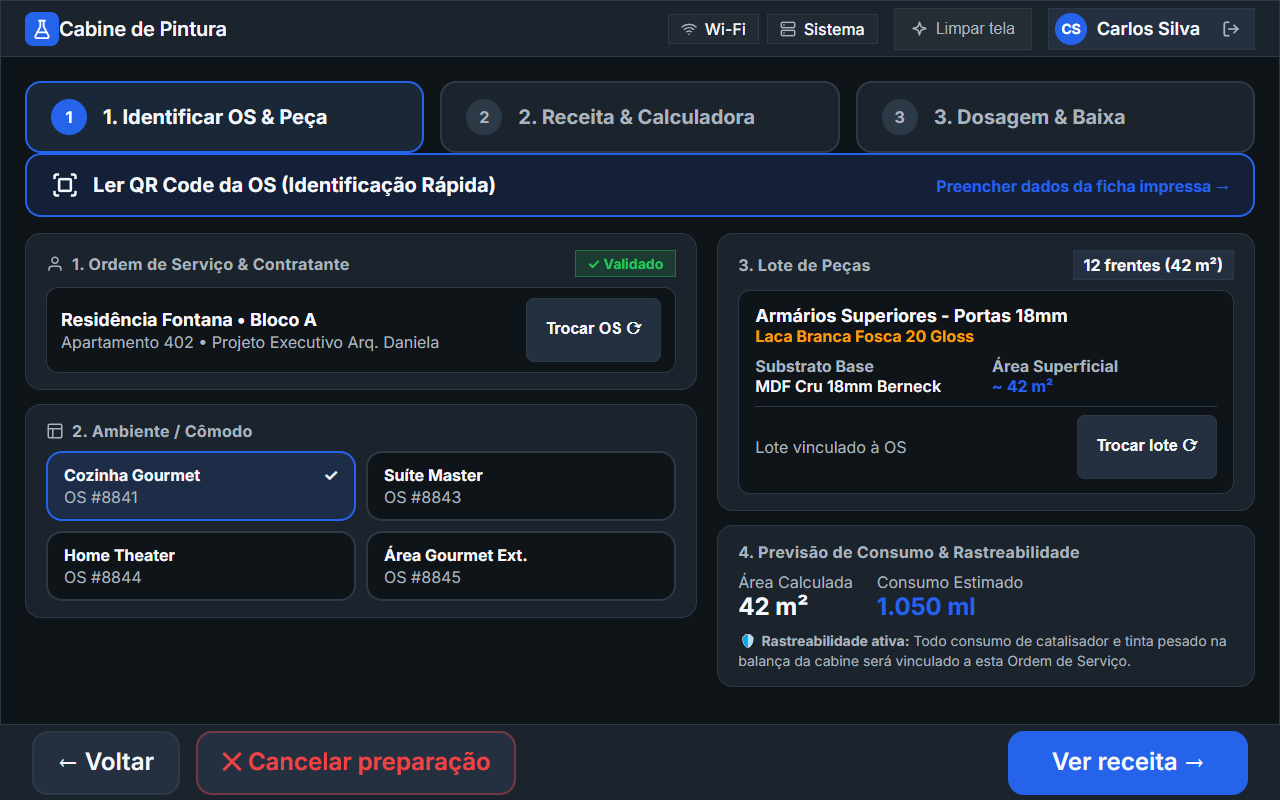
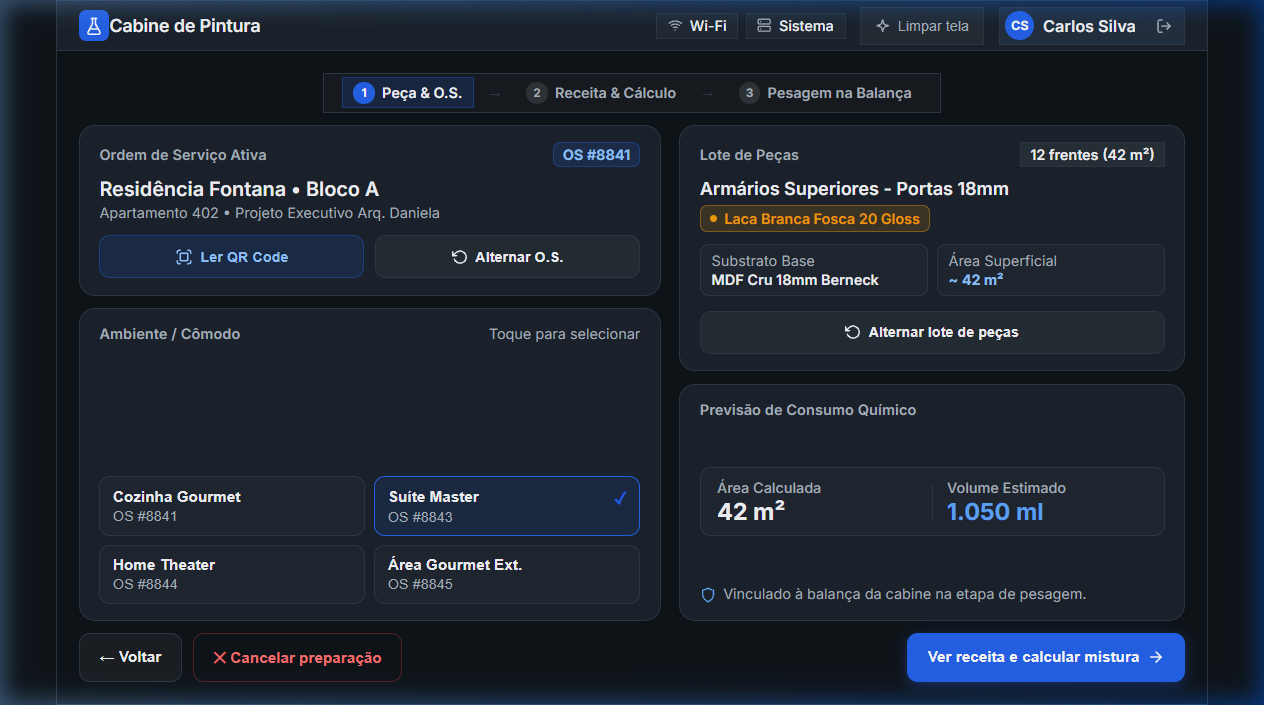
refactor(screen-os): implement minimalist Apple/Notion design for O.S. & piece selection (1280x800)

diff --git a/src/screens/ScreenOS.tsx b/src/screens/ScreenOS.tsx
@@ -1,8 +1,6 @@
 import React from 'react';
 import { Ambiente, PieceLot } from '../types';
 import { MOCK_AMBIENTES } from '../data/mock/mockData';
-import { StepIndicator } from '../components/ui/StepIndicator';
-import { Button } from '../components/ui/Button';
 
 interface ScreenOSProps {
   selectedOS: string;
@@ -20,6 +18,7 @@ interface ScreenOSProps {
 }
 
 export const ScreenOS: React.FC<ScreenOSProps> = ({
+  selectedOS,
   clientName,
   projectName,
   selectedEnvironment,
@@ -33,185 +32,226 @@ export const ScreenOS: React.FC<ScreenOSProps> = ({
   ambientes,
 }) => {
   const listaAmbientes = (ambientes || MOCK_AMBIENTES).map(a => ({ name: a.nome, code: a.codigoOS }));
-  return (
-    <>
-      <div className="screen-content-area">
-        {/* Indicador de Etapas */}
-        <StepIndicator
-          steps={[
-            { id: 1, label: '1. Identificar OS & Peça', status: 'active' },
-            { id: 2, label: '2. Receita & Calculadora', status: 'pending' },
-            { id: 3, label: '3. Dosagem & Baixa', status: 'pending' },
-          ]}
-          onStepClick={(step) => {
-            if (step.id === 2) onNavigate('recipe');
-          }}
-        />
 
-        {/* Botão Ler QR Code em destaque */}
-        <div className="btn-scan-os-featured" onClick={onScanOS}>
-          <div className="btn-scan-os-left">
-            <svg width="28" height="28" viewBox="0 0 24 24" fill="none" stroke="currentColor" strokeWidth="2.2">
-              <path d="M3 7V5a2 2 0 0 1 2-2h2" />
-              <path d="M17 3h2a2 2 0 0 1 2 2v2" />
-              <path d="M21 17v2a2 2 0 0 1-2 2h-2" />
-              <path d="M7 21H5a2 2 0 0 1-2-2v-2" />
-              <rect x="7" y="7" width="10" height="10" rx="1" />
-            </svg>
-            <span>Ler QR Code da OS (Identificação Rápida)</span>
+  return (
+    <div className="os-screen-container">
+      {/* 1. Stepper de Progresso Industrial (Compacto) */}
+      <nav className="os-stepper-bar" aria-label="Etapas da preparação">
+        <div className="os-step-pill active" aria-current="step">
+          <span className="os-step-badge">1</span>
+          <span className="os-step-text">Peça & O.S.</span>
+        </div>
+        <span className="os-step-separator" aria-hidden="true">→</span>
+        <div
+          className="os-step-pill clickable"
+          onClick={() => onNavigate('recipe')}
+          role="button"
+          tabIndex={0}
+          onKeyDown={(e) => {
+            if (e.key === 'Enter' || e.key === ' ') {
+              e.preventDefault();
+              onNavigate('recipe');
+            }
+          }}
+          title="Avançar para Receita & Cálculo"
+        >
+          <span className="os-step-badge">2</span>
+          <span className="os-step-text">Receita & Cálculo</span>
+        </div>
+        <span className="os-step-separator" aria-hidden="true">→</span>
+        <div className="os-step-pill pending">
+          <span className="os-step-badge">3</span>
+          <span className="os-step-text">Pesagem na Balança</span>
+        </div>
+      </nav>
+
+      {/* 2. Área de Trabalho Principal em 2 Colunas */}
+      <div className="os-layout-minimal">
+        {/* Coluna Esquerda: O.S. & Ambiente */}
+        <div className="os-col-left">
+          {/* Card da Ordem de Serviço */}
+          <div className="os-card-surface">
+            <div className="os-card-header-row">
+              <span className="os-section-label">Ordem de Serviço Ativa</span>
+              <span className="os-number-tag">{selectedOS || 'OS #8841'}</span>
+            </div>
+
+            <div className="os-info-block">
+              <h3 className="os-client-title">{clientName}</h3>
+              <p className="os-project-subtitle">{projectName}</p>
+            </div>
+
+            <div className="os-card-actions-row">
+              <button
+                type="button"
+                className="os-action-btn os-btn-scan"
+                onClick={onScanOS}
+                title="Escanear QR Code da Ordem de Serviço"
+                aria-label="Escanear QR Code da Ordem de Serviço"
+              >
+                <svg width="20" height="20" viewBox="0 0 24 24" fill="none" stroke="currentColor" strokeWidth="2.2" strokeLinecap="round" strokeLinejoin="round">
+                  <path d="M3 7V5a2 2 0 0 1 2-2h2" />
+                  <path d="M17 3h2a2 2 0 0 1 2 2v2" />
+                  <path d="M21 17v2a2 2 0 0 1-2 2h-2" />
+                  <path d="M7 21H5a2 2 0 0 1-2-2v-2" />
+                  <rect x="7" y="7" width="10" height="10" rx="1.5" />
+                </svg>
+                <span>Ler QR Code</span>
+              </button>
+
+              <button
+                type="button"
+                className="os-action-btn os-btn-secondary"
+                onClick={onChangeOS}
+                title="Alternar entre Ordens de Serviço cadastradas"
+                aria-label="Alternar Ordem de Serviço"
+              >
+                <svg width="18" height="18" viewBox="0 0 24 24" fill="none" stroke="currentColor" strokeWidth="2.2" strokeLinecap="round" strokeLinejoin="round">
+                  <polyline points="1 4 1 10 7 10" />
+                  <path d="M3.51 15a9 9 0 1 0 2.13-9.36L1 10" />
+                </svg>
+                <span>Alternar O.S.</span>
+              </button>
+            </div>
           </div>
-          <span style={{ fontSize: '16px', color: 'var(--primary)', fontWeight: 700 }}>
-            Preencher dados da ficha impressa →
-          </span>
+
+          {/* Card de Ambientes / Cômodos */}
+          <div className="os-card-surface os-env-surface">
+            <div className="os-card-header-row">
+              <span className="os-section-label">Ambiente / Cômodo</span>
+              <span className="os-hint-label">Toque para selecionar</span>
+            </div>
+
+            <div className="os-env-grid" role="radiogroup" aria-label="Selecione o ambiente da peça">
+              {listaAmbientes.map((env) => {
+                const isSelected = env.name === selectedEnvironment;
+                return (
+                  <button
+                    key={env.name}
+                    type="button"
+                    role="radio"
+                    aria-checked={isSelected}
+                    className={`os-env-chip ${isSelected ? 'is-selected' : ''}`}
+                    onClick={() => onSelectEnvironment(env.name)}
+                  >
+                    <div className="os-env-chip-header">
+                      <span className="os-env-name">{env.name}</span>
+                      {isSelected && (
+                        <span className="os-env-check" aria-hidden="true">✓</span>
+                      )}
+                    </div>
+                    <span className="os-env-code">{env.code}</span>
+                  </button>
+                );
+              })}
+            </div>
+          </div>
         </div>
 
-        {/* Grid de Seleção da OS */}
-        <div className="os-selection-layout">
-          {/* Coluna Esquerda */}
-          <div className="os-card-group">
-            <div className="os-box">
-              <div className="os-box-header">
-                <span className="os-box-title">
-                  <svg width="18" height="18" viewBox="0 0 24 24" fill="none" stroke="currentColor" strokeWidth="2">
-                    <path d="M20 21v-2a4 4 0 0 0-4-4H8a4 4 0 0 0-4 4v2" />
-                    <circle cx="12" cy="7" r="4" />
-                  </svg>
-                  1. Ordem de Serviço & Contratante
-                </span>
-                <span className="badge-validated">✓ Validado</span>
-              </div>
-              <div className="os-highlight-item">
-                <div className="os-highlight-info">
-                  <h4>{clientName}</h4>
-                  <p style={{ fontSize: 'var(--fs-small)' }}>{projectName}</p>
-                </div>
-                <button
-                  className="btn-action-small"
-                  onClick={onChangeOS}
-                  style={{ minHeight: '64px', minWidth: '100px', fontSize: 'var(--fs-small)', fontWeight: 700 }}
-                  aria-label="Trocar Ordem de Serviço"
-                >
-                  Trocar OS ⟳
-                </button>
+        {/* Coluna Direita: Peça & Consumo Previsto */}
+        <div className="os-col-right">
+          {/* Card do Lote de Peças */}
+          <div className="os-card-surface">
+            <div className="os-card-header-row">
+              <span className="os-section-label">Lote de Peças</span>
+              <span className="os-qty-pill">{pieceLot.qty || pieceLot.quantidade || '12 frentes'}</span>
+            </div>
+
+            <div className="os-piece-info">
+              <h3 className="os-piece-title">{pieceLot.title || pieceLot.titulo || 'Armários Superiores - Portas 18mm'}</h3>
+              <div className="os-finish-tag">
+                <span className="os-finish-dot" aria-hidden="true" />
+                <span>Laca Branca Fosca 20 Gloss</span>
               </div>
             </div>
 
-            <div className="os-box">
-              <div className="os-box-header">
-                <span className="os-box-title">
-                  <svg width="18" height="18" viewBox="0 0 24 24" fill="none" stroke="currentColor" strokeWidth="2">
-                    <rect x="3" y="3" width="18" height="18" rx="2" />
-                    <path d="M3 9h18" />
-                    <path d="M9 21V9" />
-                  </svg>
-                  2. Ambiente / Cômodo
-                </span>
+            <div className="os-specs-grid">
+              <div className="os-spec-card">
+                <span className="os-spec-k">Substrato Base</span>
+                <strong className="os-spec-v">{pieceLot.substrate || pieceLot.substrato || 'MDF Cru 18mm Berneck'}</strong>
               </div>
-              <div className="environments-grid">
-                {listaAmbientes.map((env) => {
-                  const isSelected = env.name === selectedEnvironment;
-                  return (
-                    <div
-                      key={env.name}
-                      className={`env-chip ${isSelected ? 'selected' : ''}`}
-                      onClick={() => onSelectEnvironment(env.name)}
-                      style={{ minHeight: '64px' }}
-                    >
-                      <div className="env-chip-header">
-                        <span style={{ fontSize: 'var(--fs-small)' }}>{env.name}</span>
-                        {isSelected && <span>✓</span>}
-                      </div>
-                      <span className="env-chip-sub" style={{ fontSize: 'var(--fs-small)' }}>{env.code}</span>
-                    </div>
-                  );
-                })}
+              <div className="os-spec-card">
+                <span className="os-spec-k">Área Superficial</span>
+                <strong className="os-spec-v os-spec-highlight">~ {pieceLot.area || '42 m²'}</strong>
               </div>
             </div>
+
+            <button
+              type="button"
+              className="os-action-btn os-btn-secondary os-btn-full"
+              onClick={onChangePieceLot}
+              title="Alternar lote de peças vinculado"
+              aria-label="Alternar lote de peças"
+            >
+              <svg width="18" height="18" viewBox="0 0 24 24" fill="none" stroke="currentColor" strokeWidth="2.2" strokeLinecap="round" strokeLinejoin="round">
+                <polyline points="1 4 1 10 7 10" />
+                <path d="M3.51 15a9 9 0 1 0 2.13-9.36L1 10" />
+              </svg>
+              <span>Alternar lote de peças</span>
+            </button>
           </div>
 
-          {/* Coluna Direita */}
-          <div className="os-card-group">
-            <div className="os-box">
-              <div className="os-box-header">
-                <span className="os-box-title">3. Lote de Peças</span>
-                <span className="badge-qty" style={{ fontSize: 'var(--fs-small)' }}>{pieceLot.qty}</span>
+          {/* Card de Métricas de Consumo */}
+          <div className="os-card-surface os-metrics-surface">
+            <div className="os-card-header-row">
+              <span className="os-section-label">Previsão de Consumo Químico</span>
+            </div>
+
+            <div className="os-metrics-row">
+              <div className="os-metric-box">
+                <span className="os-metric-label">Área Calculada</span>
+                <span className="os-metric-val">{pieceLot.area || '42 m²'}</span>
               </div>
-              <div className="piece-detail-card">
-                <div className="piece-header">
-                  <div>
-                    <h4>{pieceLot.title}</h4>
-                    <span style={{ fontSize: 'var(--fs-small)', color: 'var(--warn)', fontWeight: 700 }}>
-                      Laca Branca Fosca 20 Gloss
-                    </span>
-                  </div>
-                </div>
-                <div className="piece-specs-grid">
-                  <div className="spec-item">
-                    <strong style={{ fontSize: 'var(--fs-small)' }}>Substrato Base</strong>
-                    <span style={{ fontSize: 'var(--fs-small)' }}>{pieceLot.substrate}</span>
-                  </div>
-                  <div className="spec-item">
-                    <strong style={{ fontSize: 'var(--fs-small)' }}>Área Superficial</strong>
-                    <span style={{ fontSize: 'var(--fs-small)', fontWeight: 700, color: 'var(--primary)' }}>~ {pieceLot.area}</span>
-                  </div>
-                </div>
-                <div className="piece-change-bar">
-                  <span className="piece-change-hint" style={{ fontSize: 'var(--fs-small)' }}>Lote vinculado à OS</span>
-                  <button
-                    className="btn-action-small"
-                    onClick={onChangePieceLot}
-                    style={{ minHeight: '64px', minWidth: '120px', fontSize: 'var(--fs-small)', fontWeight: 700 }}
-                    aria-label="Alternar lote de peças"
-                  >
-                    Trocar lote ⟳
-                  </button>
-                </div>
+              <div className="os-metric-divider" aria-hidden="true" />
+              <div className="os-metric-box os-metric-box-primary">
+                <span className="os-metric-label">Volume Estimado</span>
+                <span className="os-metric-val os-metric-val-primary">{pieceLot.estVolume || pieceLot.volumeEstimado || '1.050 ml'}</span>
               </div>
             </div>
 
-            <div className="consumption-box">
-              <div className="os-box-header">
-                <span className="os-box-title">4. Previsão de Consumo & Rastreabilidade</span>
-              </div>
-              <div className="consumption-values-row">
-                <div className="consumption-val-group">
-                  <span>Área Calculada</span>
-                  <strong>{pieceLot.area}</strong>
-                </div>
-                <div className="consumption-val-group highlight">
-                  <span>Consumo Estimado</span>
-                  <strong>{pieceLot.estVolume}</strong>
-                </div>
-              </div>
-              <p className="consumption-desc">
-                🛡 <strong>Rastreabilidade ativa:</strong> Todo consumo de catalisador e tinta pesado na balança da cabine será vinculado a esta Ordem de Serviço.
-              </p>
+            <div className="os-trace-note">
+              <svg width="18" height="18" viewBox="0 0 24 24" fill="none" stroke="currentColor" strokeWidth="2" strokeLinecap="round" strokeLinejoin="round">
+                <path d="M12 22s8-4 8-10V5l-8-3-8 3v7c0 6 8 10 8 10z"/>
+              </svg>
+              <span>Vinculado à balança da cabine na etapa de pesagem.</span>
             </div>
           </div>
         </div>
       </div>
 
-      {/* Barra Inferior Fixa */}
-      <footer className="ds-bottom-bar">
-        <div className="ds-bottom-bar-left">
-          <Button variant="secondary" size="md" onClick={() => onNavigate('dashboard')}>
+      {/* 3. Barra Inferior Padronizada */}
+      <footer className="os-bottom-bar-minimal">
+        <div className="os-bottom-left">
+          <button
+            type="button"
+            className="os-bar-btn os-btn-back"
+            onClick={() => onNavigate('dashboard')}
+          >
             ← Voltar
-          </Button>
-          <Button
-            variant="secondary"
-            size="md"
+          </button>
+          <button
+            type="button"
+            className="os-bar-btn os-btn-cancel"
             onClick={onOpenCancelPrep}
-            style={{ borderColor: 'var(--danger-border)', color: 'var(--danger)' }}
           >
             ✕ Cancelar preparação
-          </Button>
+          </button>
         </div>
-        <div className="ds-bottom-bar-right">
-          <Button variant="primary" size="md" onClick={() => onNavigate('recipe')} style={{ minWidth: '240px' }}>
-            Ver receita →
-          </Button>
+
+        <div className="os-bottom-right">
+          <button
+            type="button"
+            className="os-bar-btn os-btn-continue"
+            onClick={() => onNavigate('recipe')}
+          >
+            <span>Ver receita e calcular mistura</span>
+            <svg width="20" height="20" viewBox="0 0 24 24" fill="none" stroke="currentColor" strokeWidth="2.2" strokeLinecap="round" strokeLinejoin="round">
+              <line x1="5" y1="12" x2="19" y2="12" />
+              <polyline points="12 5 19 12 12 19" />
+            </svg>
+          </button>
         </div>
       </footer>
-    </>
+    </div>
   );
 };
